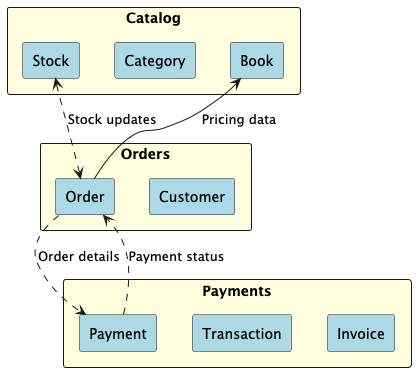
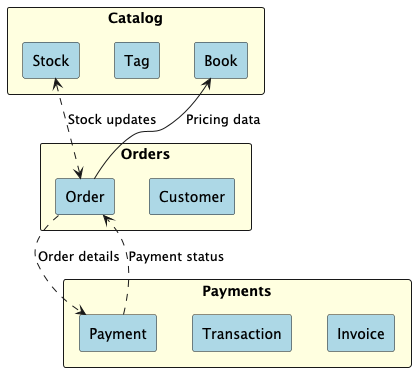
docs: replace 'Category' with 'Tag' in catalog context docs

Changed region(s): [[0.25, 0.0, 0.75, 0.3548]]

diff --git a/docs/architecture/architecture-style.md b/docs/architecture/architecture-style.md
@@ -2,132 +2,44 @@
 
 ## Microservice Backend Architecture
 
-The system adopts a **Microservice Backend Architecture**, that structures an application as a collection of small and
-autonomous services, each responsible for a specific business capability. These services communicate over lightweight
-protocols, like HTTP/REST (synchronous) and messaging systems (asynchronous).
+The **Bookshop System** is designed using a **Microservice Backend Architecture**.
 
-### Key Principles
+This architectural style structures the application as a collection of small, autonomous services, each dedicated to a
+specific business capability. Services communicate using lightweight protocols, such as:
 
-1. Decoupled Services:
-    - Each microservice is developed, deployed, and scaled independently.
-    - Changes to one service do not require changes to others.
-2. Business-Centric Design:
-    - Services are organized around business capabilities rather than technical layers.
-    - For example, in our Bookshop System, services might include Catalog, Orders, Payments, and Shipping.
-3. Autonomy:
-    - Each service has its own database or data store, ensuring complete independence and data encapsulation.
-    - This avoids the challenges of shared databases across services.
-4. Polyglot Technology:
-    - Teams can choose the best language, framework, or tool for each service, depending on the requirements.
-5. Resilience:
-    - Failure in one service does not necessarily bring down the entire system.
-    - Circuit breakers and retries ensure graceful degradation.
-6. Lightweight Communication:
-    - Communication between services uses lightweight protocols such as RESTful APIs and asynchronous messaging systems
-      like Kafka or RabbitMQ.
+- **HTTP/REST** for synchronous communication.
+- **Messaging systems** for asynchronous communication.
 
-### Core Components
+### Catalog Service
 
-1. Service Discovery:
-    - Enables services to find each other dynamically.
-    - Example: Eureka, Consul.
-2. API Gateway:
-    - Acts as a single entry point for clients, routing requests to appropriate services.
-    - Handles cross-cutting concerns like authentication, logging, and rate limiting.
-    - Example: Kong, AWS API Gateway, NGINX.
-3. Messaging System:
-    - Facilitates asynchronous communication between services.
-    - Example: Kafka, RabbitMQ, Amazon SQS.
-4. Observability:
-    - Tools for monitoring, logging, and tracing to understand system health.
-    - Example: Prometheus, Grafana, ELK Stack, Jaeger.
-5. Data Management:
-    - Each service owns its data, often using different databases (e.g., relational, NoSQL).
-
-### Best Practices
-
-1. Design for Failure:
-    - Use circuit breakers, retries, and fallback mechanisms.
-    - Handle partial failures gracefully.
-2. Versioning APIs:
-    - Ensure backward compatibility with API versioning.
-3. Centralized Observability:
-    - Implement centralized logging, metrics, and distributed tracing.
-4. Secure Communication:
-    - Use mutual TLS (mTLS) and IAM for secure inter-service communication.
-5. Automate Everything:
-    - Leverage CI/CD pipelines for automated testing, deployment, and rollback.
-6. Domain-Driven Design (DDD):
-    - Use DDD to define bounded contexts and align them with microservices.
-
-### Challenges
-
-1. Complexity:
-    - Managing multiple services, their interactions, and deployments adds operational complexity.
-2. Distributed Data Management:
-    - Ensuring consistency and synchronization between services can be challenging, especially without a shared
-      database.
-3. Latency:
-    - Network communication between services may introduce latency.
-4. Monitoring and Debugging:
-    - Debugging issues across distributed services requires robust monitoring, logging, and tracing tools.
-5. Operational Overhead:
-    - Each service requires its own CI/CD pipeline, deployment strategy, and resource provisioning.
+This document focuses on the **Catalog Service**, which is one of the core microservices in the Bookshop System. The
+service is architected using a combination of **Clean Architecture** and **Vertical Slice Architecture**. The choice
+between these two approaches depends on the complexity of the module being implemented.
 
 ---
 
-## Hexagonal Architecture (Ports and Adapters)
+## Clean Architecture
 
-The system follows a **Hexagonal Architecture (Ports and Adapters)** style to promote flexibility, testability, and
-clear separation of concerns.
+**Clean Architecture** emphasizes separation of concerns and ensures independence between high-level policies and
+low-level details. The application is structured into the following layers:
 
-### Key Principles
+1. **Domain Layer**: The core business logic and rules.
+2. **Application Layer**: Coordination of use cases and business workflows.
+3. **Infrastructure Layer**: External system integrations (e.g., databases, APIs).
+4. **Presentation Layer**: User interaction or interface (e.g., REST controllers).
 
-1. Independence of Frameworks:
-    - The architecture avoids being tightly coupled to specific frameworks or tools, allowing flexibility.
-2. Testability:
-    - The core business logic can be tested independently of infrastructure concerns.
-3. Ease of Change:
-    - External systems (e.g., switching databases or APIs) can be swapped without affecting core logic.
-4. Domain-Centric Design:
-    - The domain layer is at the heart of the architecture and dictates the system’s behavior.
+The core business logic is designed to remain completely independent of frameworks, databases, or APIs. This
+independence ensures easier testing, better maintainability, and aligns with the principles of **Domain-Driven Design**.
+Additionally, it simplifies adapting the system to evolving requirements.
 
-### Core Components
+---
 
-1. Core Domain Logic:
-    - The central hexagon represents the business rules and domain logic, independent of external systems.
-    - This is where the application’s true value lies.
-2. Ports:
-    - Abstractions that define how external systems interact with the domain logic.
-    - Inbound Ports: Define the use cases or application services exposed by the system (e.g., APIs, commands).
-    - Outbound Ports: Define the contracts for external systems the application relies on (e.g., repositories, message
-      queues).
-3. Adapters:
-    - Concrete implementations of the ports.
-    - Inbound Adapters: Translate external inputs (e.g., HTTP requests, CLI commands) into use case invocations.
-    - Outbound Adapters: Implement interactions with external systems (e.g., databases, third-party APIs).
-4. Dependency Rule:
-    - Dependencies point inward, meaning external systems depend on the domain, not the other way around.
-    - The core domain is ignorant of the outer layers.
+## Vertical Slice Architecture
 
-### Best Practices
+**Vertical Slice Architecture** organizes code by feature rather than horizontal layers. Each "slice" encapsulates all
+functionality related to a specific feature.
 
-1. Interface-Driven Design:
-    - Define clear, concise interfaces for both inbound and outbound ports.
-2. Keep the Core Pure:
-    - Avoid introducing infrastructure or framework dependencies into the domain and application layers.
-3. Automate Testing:
-    - Write unit tests for domain and application layers and integration tests for adapters.
-4. Minimize Adapters Initially:
-    - Start with simple adapters and evolve them as needed.
-5. Use Dependency Injection:
-    - Inject adapter implementations into the application layer, adhering to the Dependency Inversion Principle.
-
-### Challenges
-
-1. Learning Curve:
-    - Developers unfamiliar with this style may need training to grasp its principles.
-2. Overhead for Simple Applications:
-    - May add unnecessary complexity for small or straightforward systems.
-3. Code Proliferation:
-    - Ports and adapters often lead to additional layers and interfaces, increasing the codebase size.
+This approach removes unnecessary cross-layer dependencies, reducing cognitive complexity. It increases modularity,
+allowing each feature to be updated independently without impacting others. Additionally, it enhances scalability and
+extensibility for future development. It complements modern practices like **Command-Query Responsibility Segregation (
+CQRS)** and aligns seamlessly with **Domain-Driven Design** principles for improved organization.

diff --git a/docs/architecture/bounded-contexts.md b/docs/architecture/bounded-contexts.md
@@ -11,7 +11,7 @@ aligned with a microservice.
 
 ## Catalog Context
 
-The Catalog Context is responsible for managing the books, including their categories, and their stock levels. It
+The Catalog Context is responsible for managing the books, including their tags, and their stock levels. It
 ensures accurate and up-to-date information about available books and their pricing.
 
 ![Catalog Context](bounded-context-diagrams/rendered/catalog_context.png)
@@ -20,11 +20,11 @@ ensures accurate and up-to-date information about available books and their pric
 
 - **Book:** Represents a book available for purchase.
 - **Stock:** Tracks the availability of a book, ensuring that inventory levels are accurate.
-- **Category:** Groups books for easier navigation and classification.
+- **Tag:** Tags books for easier navigation and classification.
 
 ### Responsibilities
 
-- Manage the creation, updating, and deletion of books and categories.
+- Manage the creation, updating, and deletion of books and tags.
 - Maintain accurate stock levels for all books.
 - Provide stock and pricing information to other contexts.
 
